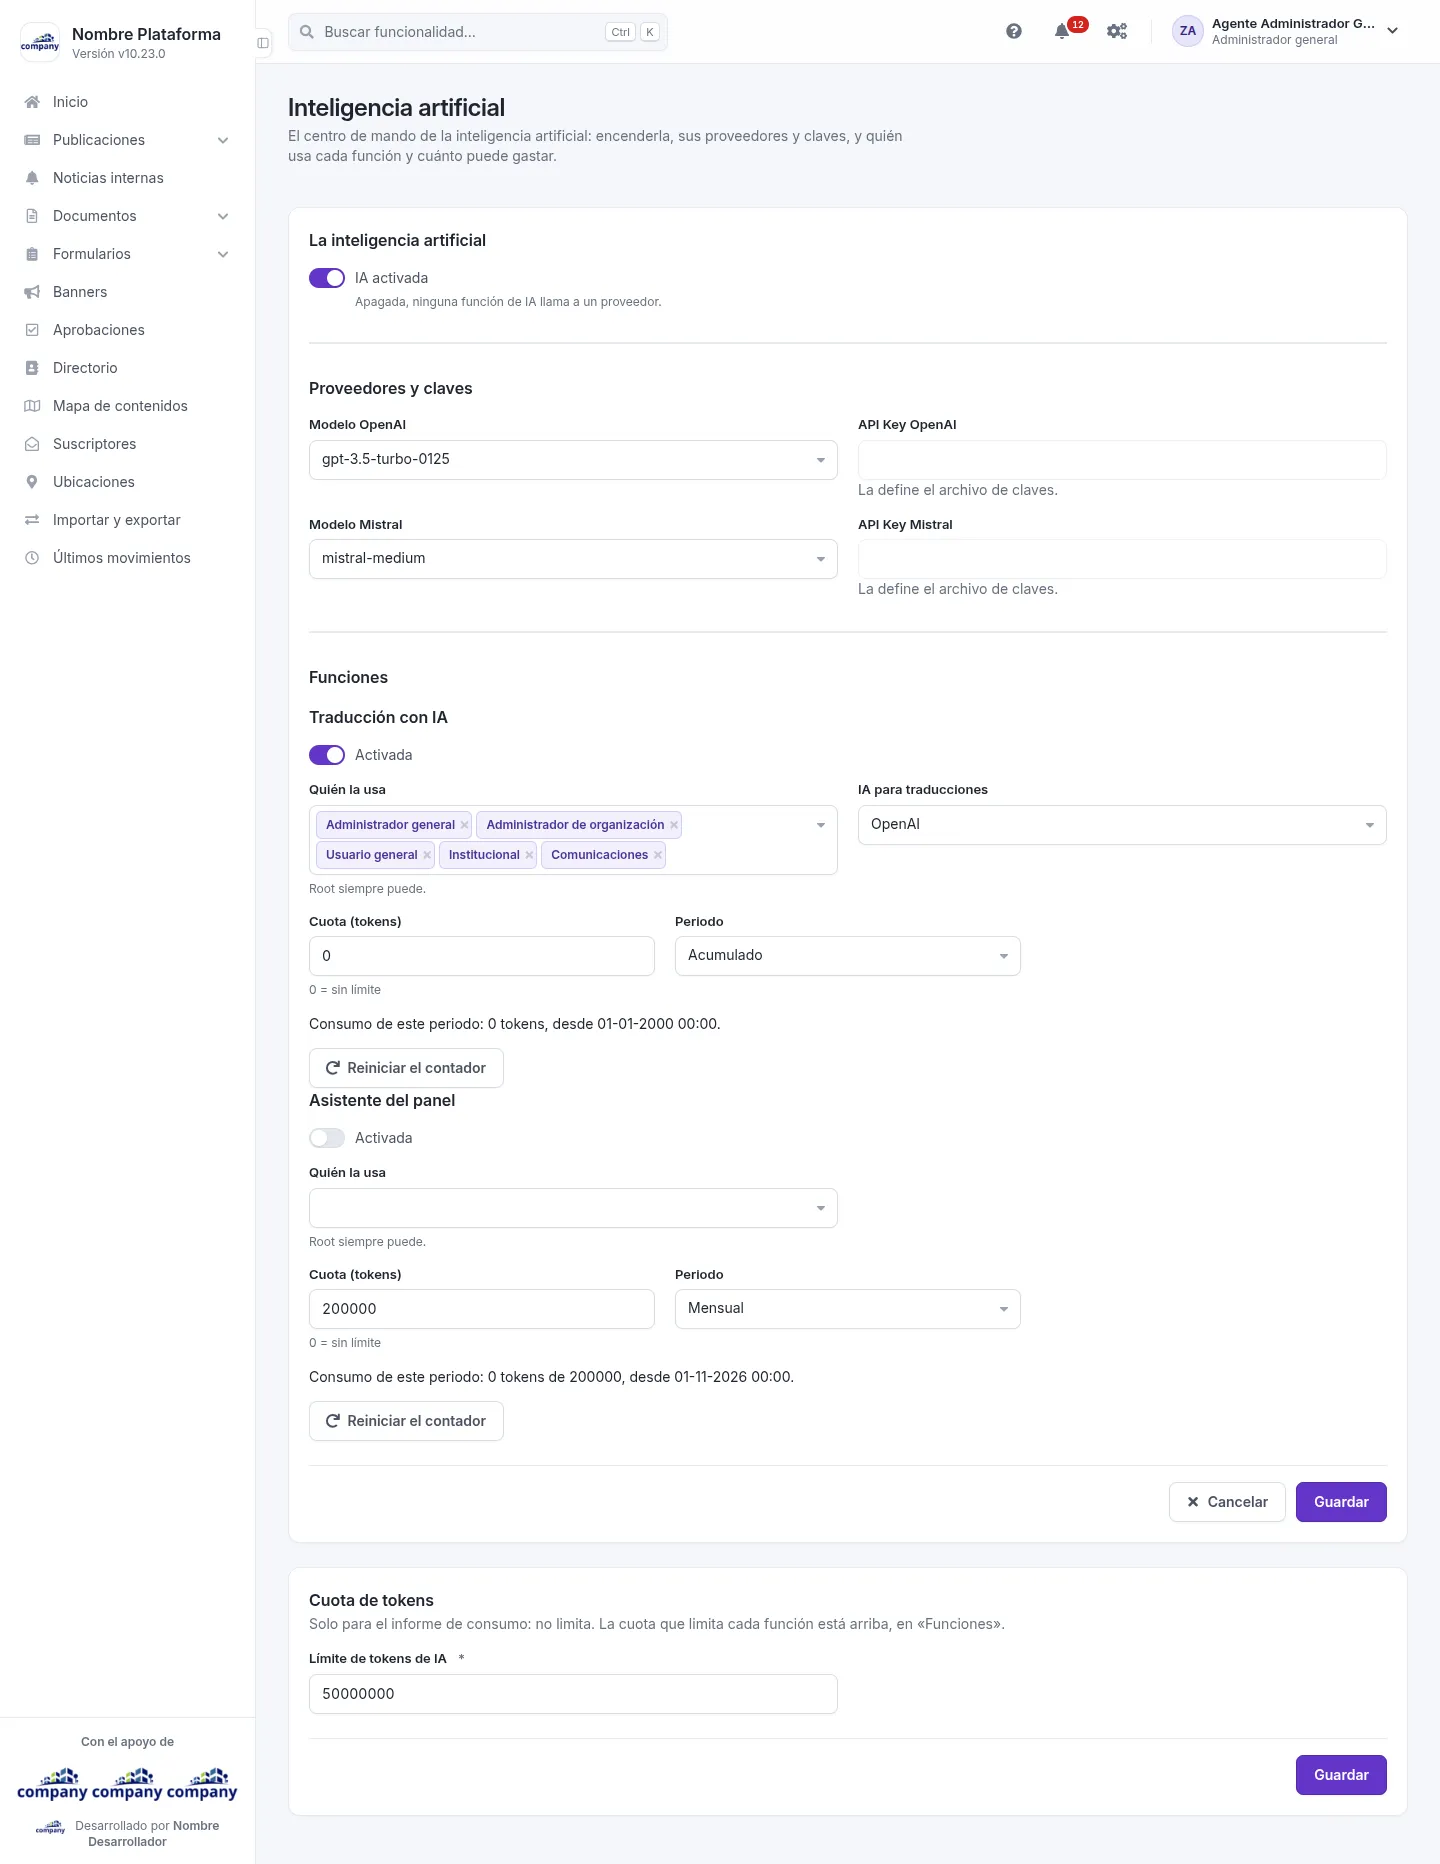
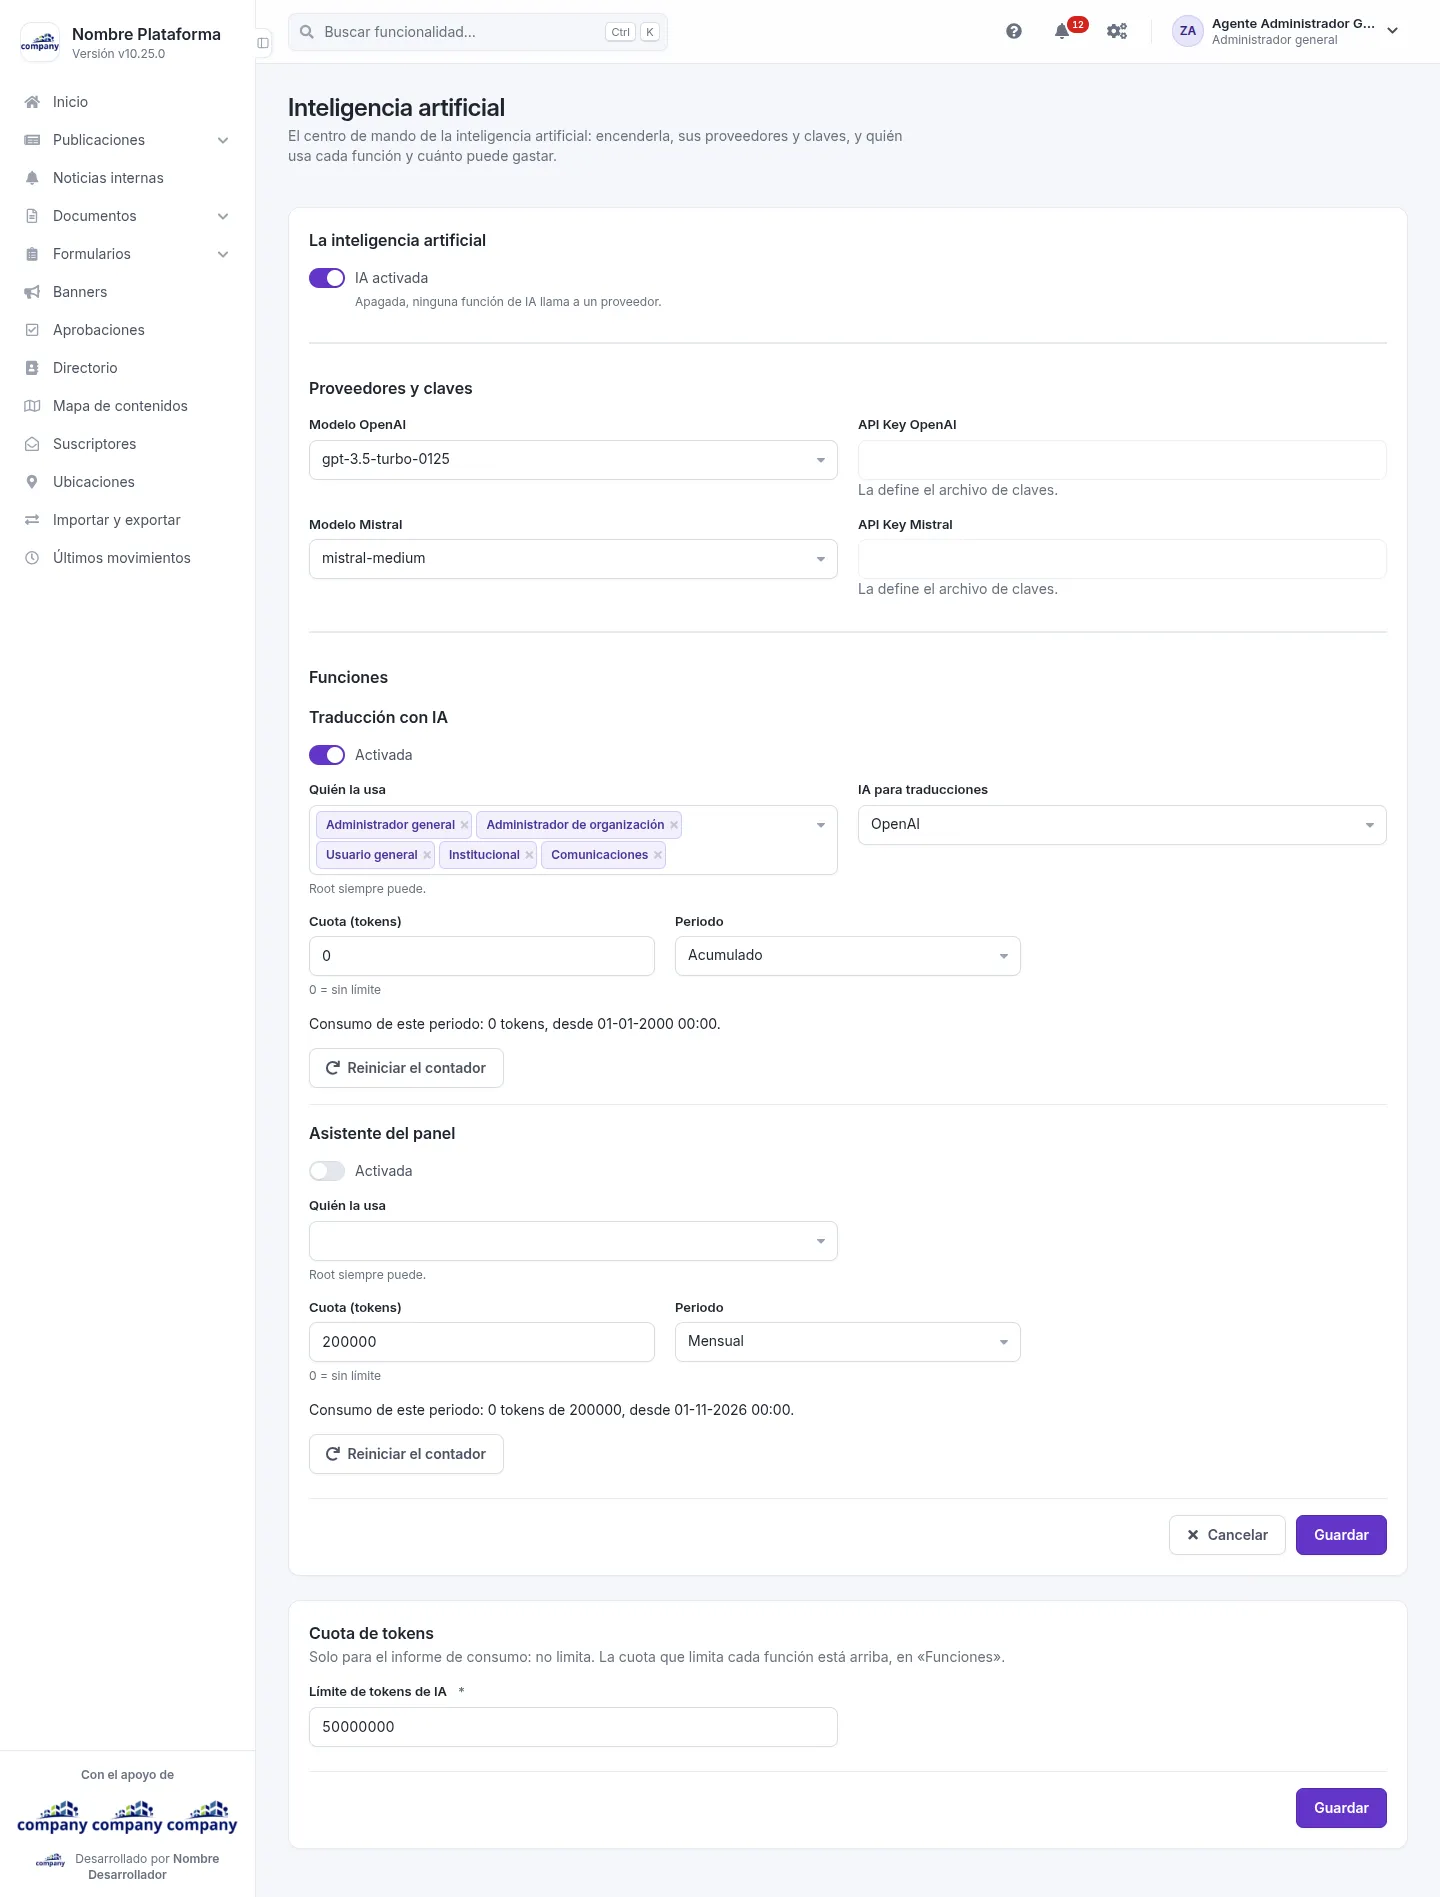
PiecesPHP v10.26.0

diff --git a/source-docs/starlight/src/content.config.ts b/source-docs/starlight/src/content.config.ts
@@ -7,15 +7,26 @@ import { glob } from 'astro/loaders'
 import { docsSchema, i18nSchema } from '@astrojs/starlight/schema'
 import { i18nLoader } from '@astrojs/starlight/loaders'
 
-//La guía y la API de MkDocs se leen EN SU SITIO y se convierten AL COMPILAR, sin tocar los .md (ADR 0076): MkDocs las sigue
-//compilando. Un solo glob para las dos: dos sobre la misma colección se borrarían las entradas uno al otro.
+//El Markdown se lee EN SU SITIO y se convierte AL COMPILAR, sin tocar los .md (ADR 0076). Un solo glob para todas las
+//fuentes de un sitio: dos sobre la misma colección se borrarían las entradas uno al otro.
 const SOURCES_BASE = '..'
-//Cada fuente, su carpeta (relativa a source-docs/) y el prefijo de sus rutas: la API va en /api/, como en MkDocs.
-const SOURCES = [
-	{ dir: 'project/docs', prefix: '' },
-	{ dir: 'api/docs', prefix: 'api/' },
-]
-//La base de los fragmentos `--8<--`: la raíz del repositorio (source-docs/project/mkdocs.yml, pymdownx.snippets, base_path).
+//Dos sitios en este proyecto, elegidos al compilar con DOCS_SITE (astro.config.mjs): «guia», la guía y la API (la API va en
+///api/), y «entornos», las guías de entorno, que no se publican. Cada fuente, su carpeta (relativa a source-docs/) y el
+//prefijo de sus rutas.
+const SITES: Record<string, { dir: string; prefix: string }[]> = {
+	guia: [
+		{ dir: 'project/docs', prefix: '' },
+		{ dir: 'api/docs', prefix: 'api/' },
+	],
+	entornos: [{ dir: 'entornos/docs', prefix: '' }],
+}
+const SITE = process.env.DOCS_SITE || 'guia'
+if (SITES[SITE] === undefined) {
+	throw new Error(`DOCS_SITE=«${SITE}» no es ningún sitio (guia o entornos).`)
+}
+const SOURCES = SITES[SITE]
+//La base de los fragmentos `--8<--`: la raíz del repositorio. Los fragmentos se escriben con rutas desde ella
+//(«--8<-- "src/app/…"»); la heredaron de MkDocs (pymdownx.snippets, base_path) y es la única.
 const SNIPPETS_BASE = '../..'
 
 //El primer «# Título» de un .md: las páginas de MkDocs no llevan frontmatter y Starlight pide `title` y lo pinta él.
@@ -114,18 +125,41 @@ function convertAdmonitions(text: string, filePath: string): string {
  */
 function convertLinks(text: string, filePath: string, base: string): string {
 	const pageDir = dirname(filePath)
+	return outsideCode(text, (part, index) =>
+		part.replace(/\]\((?!https?:|mailto:|#|\/)([^)#\s]+\.md)(#[^)\s]*)?\)/g, (_match, target: string, anchor: string | undefined) => {
+			const absolute = resolve(pageDir, target)
+			const slug = existsSync(absolute) ? slugOf(absolute) : null
+			if (slug === null) {
+				throw new Error(`${relative(siteRoot, filePath)}:${index + 1}: el enlace a «${target}» no lleva a ninguna página de la documentación.`)
+			}
+			return `](${base}${slug === 'index' ? '' : slug + '/'}${anchor ?? ''})`
+		}),
+	)
+}
+
+/**
+ * Aplica una conversión solo FUERA del código: ni en los bloques ``` o ~~~ ni en el código en línea (`…`), donde un
+ * «](ruta.md)» es un ejemplo y no un enlace. La función recibe cada trozo de texto y el número de su línea (desde 0).
+ */
+function outsideCode(text: string, convert: (part: string, lineIndex: number) => string): string {
+	let fence: string | null = null
 	return text
 		.split('\n')
-		.map((line, index) =>
-			line.replace(/\]\((?!https?:|mailto:|#|\/)([^)#\s]+\.md)(#[^)\s]*)?\)/g, (_match, target: string, anchor: string | undefined) => {
-				const absolute = resolve(pageDir, target)
-				const slug = existsSync(absolute) ? slugOf(absolute) : null
-				if (slug === null) {
-					throw new Error(`${relative(siteRoot, filePath)}:${index + 1}: el enlace a «${target}» no lleva a ninguna página de la guía ni de la API.`)
-				}
-				return `](${base}${slug === 'index' ? '' : slug + '/'}${anchor ?? ''})`
-			}),
-		)
+		.map((line, index) => {
+			const fenceMatch = /^[ \t]*(```+|~~~+)/.exec(line)
+			if (fenceMatch) {
+				fence = fence === null ? fenceMatch[1] : line.trim().startsWith(fence) ? null : fence
+				return line
+			}
+			if (fence !== null) {
+				return line
+			}
+			//Los trozos impares del split son código en línea (con sus comillas): se dejan como están.
+			return line
+				.split(/(`+[^`]*?`+)/)
+				.map((part, i) => (i % 2 === 1 ? part : convert(part, index)))
+				.join('')
+		})
 		.join('\n')
 }
 
@@ -134,10 +168,10 @@ function convertLinks(text: string, filePath: string, base: string): string {
  * `sl-link-button not-content`, secundario o primario. Su aspecto lo da src/styles/site.css: el CSS del componente es local.
  */
 function convertButtons(text: string): string {
-	return text.replace(/\[([^\]\n]+)\]\(([^)\s]+)\)\{[ \t]*\.md-button([ \t]+\.md-button--primary)?[ \t]*\}/g, (_match, label: string, href: string, primary: string | undefined) => {
+	return outsideCode(text, (part) => part.replace(/\[([^\]\n]+)\]\(([^)\s]+)\)\{[ \t]*\.md-button([ \t]+\.md-button--primary)?[ \t]*\}/g, (_match, label: string, href: string, primary: string | undefined) => {
 		const escape = (value: string) => value.replace(/&/g, '&amp;').replace(/"/g, '&quot;').replace(/</g, '&lt;')
 		return `<a class="sl-link-button not-content ${primary ? 'primary' : 'secondary'}" href="${escape(href)}">${escape(label)}</a>`
-	})
+	}))
 }
 
 /**

diff --git a/source-docs/starlight/src/pages/api/[file].ts b/source-docs/starlight/src/pages/api/[file].ts
@@ -1,0 +1,16 @@
+import { readFileSync } from 'node:fs'
+import { fileURLToPath } from 'node:url'
+
+//La descarga de la API, en /api/openapi.json como en MkDocs, byte a byte la fuente: source-docs/api/openapi.json. Solo en el
+//sitio «guia» (DOCS_SITE, astro.config.mjs): las guías de entorno no tienen API. Por eso es una ruta con getStaticPaths.
+const SOURCE = fileURLToPath(new URL('../../../../api/openapi.json', import.meta.url))
+
+export const prerender = true
+
+export function getStaticPaths(): { params: { file: string } }[] {
+	return (process.env.DOCS_SITE || 'guia') === 'guia' ? [{ params: { file: 'openapi.json' } }] : []
+}
+
+export function GET(): Response {
+	return new Response(readFileSync(SOURCE), { headers: { 'Content-Type': 'application/json' } })
+}

diff --git a/src/app/classes/PiecesPHP/Settings/Views/panel/pages/app_configurations/ai.php b/src/app/classes/PiecesPHP/Settings/Views/panel/pages/app_configurations/ai.php
@@ -118,8 +118,13 @@ use PiecesPHP\UserSystem\ORM\UsersModel;
                     'title' => __($langGroup, 'Funciones'),
                 ]);
             ?>
+            <?php $firstCapability = true; ?>
             <?php foreach (AICapabilityRegistry::all() as $capabilityKey => $capability): ?>
+            <?php if (!$firstCapability): ?>
+            <div class="ui divider"></div>
+            <?php endif; ?>
             <?php
+                $firstCapability = false;
                 $settings = AIGateway::settingsFor($capabilityKey);
                 $field = AIGateway::CONFIG_NAME . '[capabilities][' . $capabilityKey . ']';
                 $idBase = 'ai-capability-' . $capabilityKey;

diff --git a/src/app/core/bootstrap.php b/src/app/core/bootstrap.php
@@ -206,7 +206,7 @@ if (!defined('APP_VERSION')) {
     /**
      * Versión de la aplicación
      */
-    define('APP_VERSION', 'v10.25.0');
+    define('APP_VERSION', 'v10.26.0');
     /**
      * Fecha de la versión de la aplicación
      */

diff --git a/source-docs/project/docs/piecesphp/index.md b/source-docs/project/docs/piecesphp/index.md
@@ -1,16 +1,20 @@
 # PiecesPHP Framework
-## [Estructura del Framework](./content/structure.md)
-## [Despliegue](./content/general.md)
-## [Permisos y Propiedad](./content/permissions.md)
-## [Sistemas de Rutas](./content/routing.md)
-## [Mappers y Base de Datos](./content/mappers.md)
-## [Tareas Gulp](./content/gulp.md)
-## [Terminal](./content/terminal.md)
-## [Crear un módulo](./content/modules.md)
-## [El panel por dentro](./content/panel.md)
-## [Mantener el framework](./content/maintain.md)
 
-### Características Avanzadas
+## La guía
+
+- **[Estructura del framework](./content/structure.md)**: las carpetas del proyecto y qué va en cada una.
+- **[Despliegue](./content/general.md)**: el entorno de desarrollo, sus dependencias y lo que conviene saber antes de publicar.
+- **[Permisos y propiedad](./content/permissions.md)**: los permisos de archivos y carpetas en el servidor.
+- **[Sistema de rutas](./content/routing.md)**: rutas y grupos sobre Slim 4, donde el nombre de la ruta es su permiso.
+- **[Mappers y base de datos](./content/mappers.md)**: el mapeo de entidades y sus tablas.
+- **[Tareas Gulp](./content/gulp.md)**: compilar los estilos y el TypeScript.
+- **[Terminal](./content/terminal.md)**: `bin/cli` y sus acciones de administración y mantenimiento.
+- **[Crear un módulo](./content/modules.md)**: dónde vive el código de un módulo y cómo se arma.
+- **[El panel por dentro](./content/panel.md)**: cómo está hecho el panel de administración y qué usar en una vista suya.
+- **[Mantener el framework](./content/maintain.md)**: para quien cambia el propio PiecesPHP, no solo un proyecto que parte de él.
+
+## Características avanzadas
+
 - **[Sistema de Colas](./new-features/queues.md)**: Procesamiento asíncrono de tareas pesadas.
 - **[FreezeRequest](./new-features/freeze-request.md)**: Persistencia de contexto HTTP para ejecución diferida.
 - **[HttpClient](./new-features/http-client.md)**: Cliente HTTP moderno y robusto.

diff --git a/source-docs/project/docs/piecesphp/content/structure.md b/source-docs/project/docs/piecesphp/content/structure.md
@@ -10,8 +10,10 @@ PiecesPHP sigue una organización modular y profesional para separar la lógica 
 - **`databases/`**: Scripts SQL de vistas, funciones y datos iniciales. Las **tablas** no se escriben aquí a mano:
   salen de los mappers con `bin/cli scheme-create` (ver [Mappers](./mappers.md)).
 
-- **`docs/`**: Salida de `mkdocs build` de esta documentación (`site_dir` en `source-docs/project/mkdocs.yml`). No existe
-  hasta que se construye; no se versiona ni se edita a mano.
+- **`source-docs/`**: La documentación. La guía (`source-docs/project/docs/`) y la API (`source-docs/api/docs/`, que
+  genera `bin/api-docs` desde `source-docs/api/openapi.json`) son Markdown, y su menú sale de
+  `source-docs/project/nav.yml` y `source-docs/api/nav.yml`. El sitio se compila con Starlight (`source-docs/starlight/`)
+  mediante `bin/docs`; lo compilado no se versiona ni se edita a mano.
 
 - **`files/`**: Recursos auxiliares: `dev/` guarda datos de máquina de las herramientas de verificación (líneas base,
   firmas); también hay traducciones públicas e instrucciones de Webflow. La colección de Postman **no** está aquí,

diff --git a/CHANGELOG.md b/CHANGELOG.md
@@ -1,3 +1,14 @@
+# 10.26.0 (14-11-2026)
+
+- **La documentación se publica con Starlight** (antes, MkDocs): la guía y la API en un solo sitio, con el mismo menú y
+  las mismas direcciones, buscador y modo oscuro. La portada de la guía es ahora una lista de capítulos con una línea de
+  qué es cada uno.
+- **Configuración › IA**: cada función queda separada de la siguiente (el botón «Reiniciar el contador» ya no se pega al
+  título de la función de abajo).
+- **Para quien mantiene la documentación**: `bin/docs preparar` y `desplegar` compilan con Starlight; desaparece
+  `--mkdocs`. El menú de la guía vive en `source-docs/project/nav.yml` y el de la API en `source-docs/api/nav.yml`, que
+  escribe `bin/api-docs`; los `mkdocs.yml` se retiran y MkDocs deja de hacer falta.
+
 # 10.25.0 (14-11-2026)
 
 - **Documentación, para quien la mantiene: `bin/docs ver` y `bin/docs compilar` usan Starlight** para la guía y la

diff --git a/AGENTS.md b/AGENTS.md
@@ -103,7 +103,7 @@ bin/verify              # la verificación de producto completa, en orden
 bin/verify --changed-since=<commit>  # la parcial: gates solo del área tocada (ADR 0062); nunca para cerrar
 bin/check-routes        # patrones de ruta; funciona aunque la aplicación no arranque
 bin/con-marca -- <orden> # una orden que no es suite: lo que escriba en los registros de errores se poda al salir
-bin/docs ver|compilar|preparar  # la documentación: ver y compilar con Starlight (--mkdocs, lo de antes); preparar, con MkDocs hasta que Starlight publique
+bin/docs ver|compilar|preparar  # la documentación con Starlight: verla, compilarla y preparar lo que se publica
 bin/paquete-revision <etiqueta>  # zip, SQL sin secretos y guía, para un servidor de pruebas; no viaja
 bin/cli <acción>        # CLI del framework (help lista las acciones)
 bin/phpstan             # análisis estático (nivel 8) -> PHPStanResult.Summary.txt
